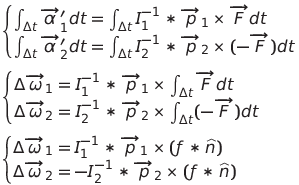
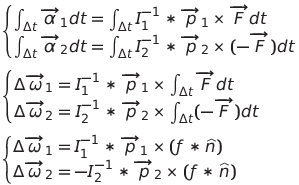
Fixing some things up that became apparent once I could see the rendered doc on GitHub.

diff --git a/doc/physics.latex.md b/doc/physics.latex.md
@@ -125,16 +125,16 @@ mag = \frac{-(1 + restitution\_cofficient)(\overrightarrow{v_1} - \overrightarro
 ## angular_accelerations
 ```latex
 \begin{cases}
-\overrightarrow{\alpha}_1' = I_1^{-1} * \overrightarrow{p}_1 \times \overrightarrow{F} \\
-\overrightarrow{\alpha}_2' = I_2^{-1} * \overrightarrow{p}_2 \times (-{\overrightarrow{F}})
+\overrightarrow{\alpha}_1 = I_1^{-1} * \overrightarrow{p}_1 \times \overrightarrow{F} \\
+\overrightarrow{\alpha}_2 = I_2^{-1} * \overrightarrow{p}_2 \times (-{\overrightarrow{F}})
 \end{cases}
 ```
 
 ## angular_impulses
 ```latex
 && \begin{cases}
-\int_{\Delta t} \overrightarrow{\alpha}_1' dt = \int_{\Delta t} I_1^{-1} * \overrightarrow{p}_1 \times \overrightarrow{F} dt \\
-\int_{\Delta t} \overrightarrow{\alpha}_2' dt = \int_{\Delta t} I_2^{-1} * \overrightarrow{p}_2 \times (-{\overrightarrow{F}}) dt
+\int_{\Delta t} \overrightarrow{\alpha}_1 dt = \int_{\Delta t} I_1^{-1} * \overrightarrow{p}_1 \times \overrightarrow{F} dt \\
+\int_{\Delta t} \overrightarrow{\alpha}_2 dt = \int_{\Delta t} I_2^{-1} * \overrightarrow{p}_2 \times (-{\overrightarrow{F}}) dt
 \end{cases} \\
 \vspace{10} \\
 && \begin{cases}
